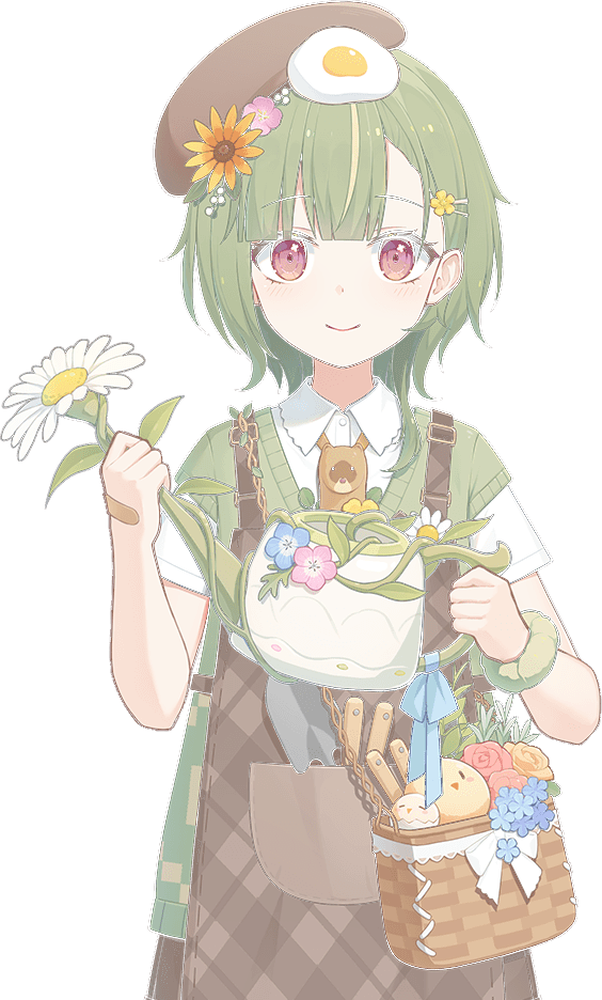
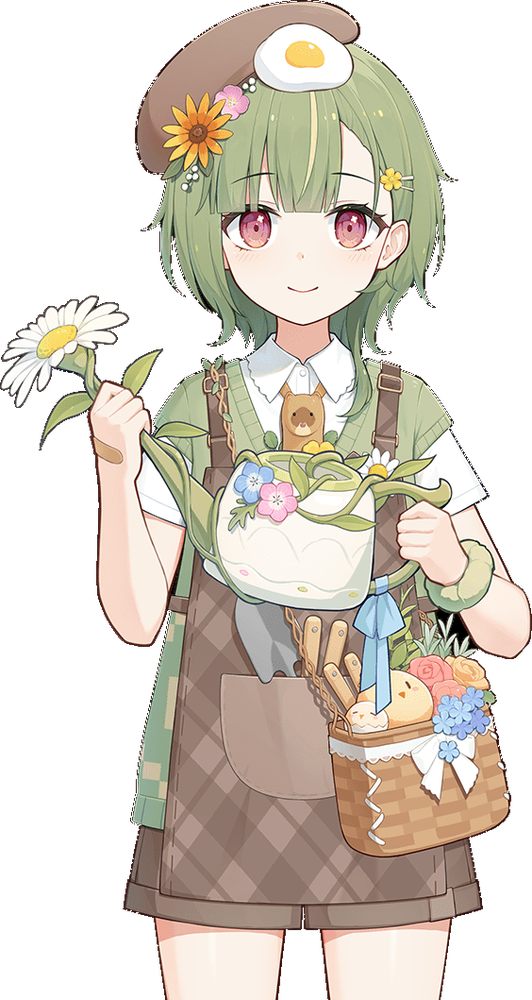
背景人物重新泛洪抠图(保留眉毛等深色细节,原亮度阈值误抠)，bg-person?v=2强制刷新

diff --git a/index.html b/index.html
@@ -1960,7 +1960,7 @@
 
     /* ===== 主题色半透明毛玻璃（覆盖白底模块） ===== */
     html, body {
-      background: url('assets/bg-person.png') right 0 bottom/auto 80vh no-repeat fixed, linear-gradient(160deg, #f2f5e2 0%, #e7eecd 45%, #dbe5b8 100%);
+      background: url('assets/bg-person.png?v=2') right 0 bottom/auto 80vh no-repeat fixed, linear-gradient(160deg, #f2f5e2 0%, #e7eecd 45%, #dbe5b8 100%);
       background-color: #f2f5e2;
     }
     /* 手机端：去掉背景人物（只保留渐变） */

diff --git a/buttons/index.html b/buttons/index.html
@@ -48,7 +48,7 @@
     html, body {
       margin: 0;
       padding: 0;
-      background: url('../assets/bg-person.png') right 0 bottom/auto 80vh no-repeat fixed, linear-gradient(160deg, #f2f5e2 0%, #e7eecd 45%, #dbe5b8 100%);
+      background: url('../assets/bg-person.png?v=2') right 0 bottom/auto 80vh no-repeat fixed, linear-gradient(160deg, #f2f5e2 0%, #e7eecd 45%, #dbe5b8 100%);
       background-color: #f2f5e2;
       color: var(--text);
       font-family: 'Microsoft YaHei', 'Segoe UI', sans-serif;
